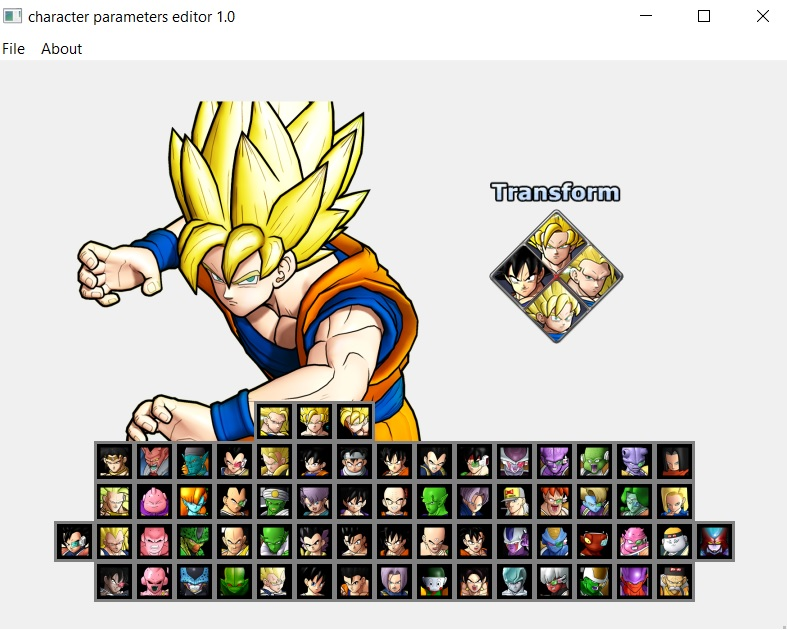
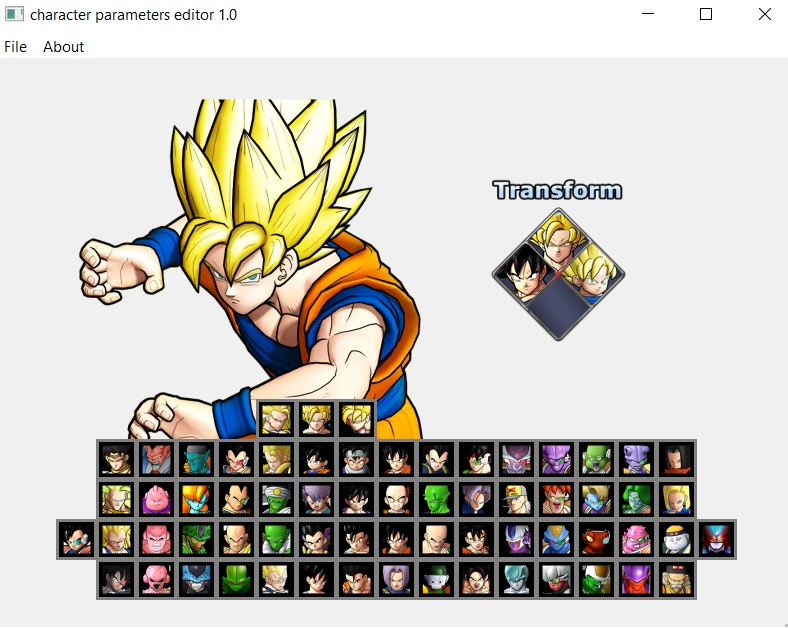
Updadted README

diff --git a/README.md b/README.md
@@ -12,23 +12,27 @@ You can get access to the Raging Blast Modding community in the [Discord](https:
 
 When the tool is opened the first time, it will show a disabled panel with all the characters. 
 
-<img src="images/panel_disabled.jpg" alt="panel disabled image" width="50%">
+<img src="images/panel_disabled.jpg" alt="panel disabled image" width="30%">
+
 
 To enable it, you need to open the file operate_resident_param.pak from the st_pack_battle_others_pt_ps3 afs. Doing that, the main panel will be enabled, a portrait of the character selected will be show, and the transformation panel too.
 
 <img src="images/main_image.jpg" alt="main image" width="50%">
 
-Select the character you want like in the Dragon Ball Raging Blast 2 game.
 
-<img src="images/chara_selected.jpg" alt="chara selected image" width="50%">
+Select the character you want by clicking in his/her image in the panel.
+
+<img src="images/chara_selected.jpg" alt="chara selected image" width="30%">
+
 
 Next, select in the transformation panel the slot you want to edit. It will pop up a new Window with all the character you can swap to.
 
-<img src="images/select_chara_window.jpg" alt="select chara window image" width="50%">
+<img src="images/select_chara_window.jpg" alt="select chara window image" width="30%">
+
 
 Click the character you want to add/edit in the slot, and it will be edited for the character. If you want to remove a transformation, select the character that is currently using the slot (character with red border) in order to remove it.
 
+<img src="images/character_edited.jpg" alt="character edited image" width="30%">
 
-<img src="images/character_edited.jpg" alt="character edited image" width="50%">
 
 If you finished your editions, confirm the editions by saving the file.
